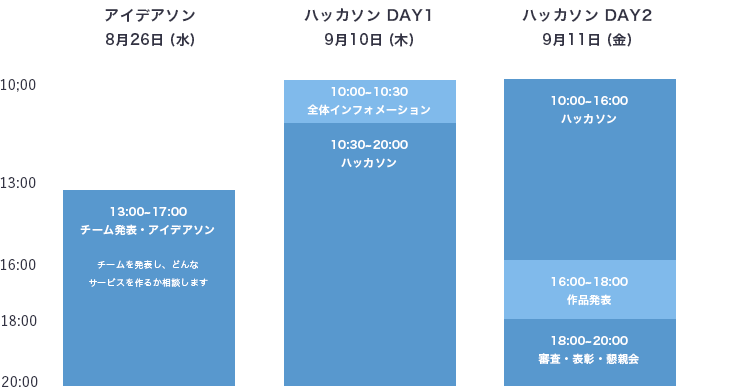
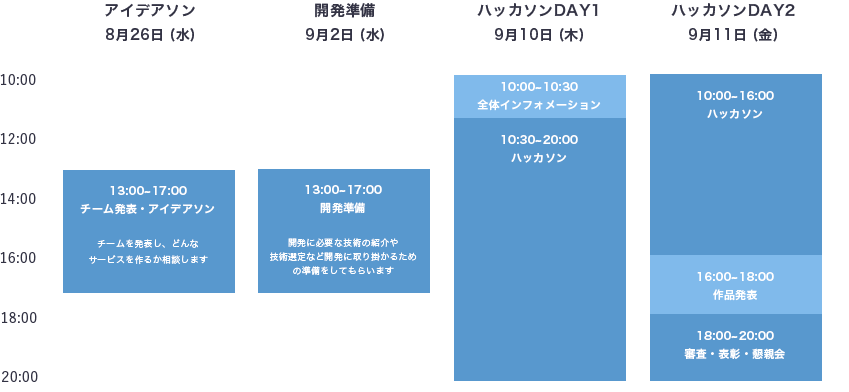
プライバシーポリシーの追加とスケジュールの修正

diff --git a/source/privacy.html b/source/privacy.html
@@ -1,0 +1,44 @@
+<!DOCTYPE html>
+<html lang="ja">
+<head>
+  <meta charset="UTF-8">
+  <meta http-equiv="X-UA-Compatible" content="IE=edge">
+  <meta name="viewport" content="width=device-width, initial-scale=1, maximum-scale=1, user-scalable=no">
+  <meta name="robots" content="noindex">
+  <title>プライバシーポリシー - DHacks</title>
+  <link rel="stylesheet" href="./stylesheets/privacy.css">
+</head>
+<body>
+  <main class="main" role="main">
+    <section>
+      <div class="container">
+        <h1>DHacks プライバシーポリシー</h1>
+
+        <p>Doshisha Institute of Technology（以下「DIT」）は、以下のとおり個人情報保護方針を定め、プライバシーを尊重し、当ハッカソンイベントへの参加者（以下参加者）の個人情報（以下の定義に従います）の管理に細心の注意を払い、これを取扱うものとします。</p>
+
+        <h2>1. 個人情報の定義</h2>
+        <p>個人情報とは、参加者個人に関する情報であって、当該情報を構成する氏名、メールアドレス、所属、その他の記述等により当該参加者を識別できるものをいいます。また、その情報のみでは識別できない場合でも、他の情報と容易に照合することができ、結果的に参加者個人を識別できるものも個人情報に含まれます。</p>
+
+
+        <h2>2. 個人情報の利用目的</h2>
+        <p>DITが取得する個人情報は、下記の目的の範囲内で適正に取り扱います。</p>
+
+        <ul>
+          <li>ハッカソンイベントの連絡</li>
+          <li>DITが開催するイベント情報の告知</li>
+          <li>本イベント提携企業への個人情報の提供</li>
+        </ul>
+
+        <h2>3. 第三者提供</h2>
+        <p>DITは、原則として、参加者本人の同意を得ずに個人情報を第三者に提供しません。提供先・提供情報内容を特定した上で、参加者の同意を得た場合に限り提供します。</p>
+
+        <h2>4. 個人情報の管理</h2>
+        <p>管理責任者：同志社大学　同志社ローム記念館プロジェクト　DIT</p>
+      </div>
+    </section>
+  </main>
+  <div class="footer" role="contentinfo">
+    <small class="copyright">&copy; 2015 DIT.</small>
+  </div>
+</body>
+</html>

diff --git a/source/index.html b/source/index.html
@@ -57,9 +57,9 @@
             <th>日時</th>
             <td>
               <ul>
-                <li>アイデアソン：8月26日(水) 13時〜</li>
-                <li>開発準備：9月2日(水) 13時〜</li>
-                <li>ハッカソン：9月10日(木)〜9月11日(金)</li>
+                <li>アイデアソン：8月26日(水) 13時〜17時（任意参加）</li>
+                <li>開発準備：9月2日(水) 13時〜17時（任意参加）</li>
+                <li>ハッカソン：9月10日(木)〜9月11日(金)（必須）</li>
               </ul>
             </td>
           </tr>
@@ -77,11 +77,11 @@
           </tr>
           <tr>
             <th>人数</th>
-            <td>28名<br><span class="note">※定員を超えた場合は抽選</span></td>
+            <td>28名(1チーム4人)</td>
           </tr>
           <tr>
             <th>エントリー期間</th>
-            <td>6月27日(土)〜8月上旬</td>
+            <td>6月27日(土)〜8月9日(日)</td>
           </tr>
           <tr>
             <th>ルール</th>
@@ -119,7 +119,7 @@
         <div class="row">
           <img src="./images/schedule.png" alt="スケジュール">
         </div>
-        <p style="margin-top: 30px;">※9月2日に開発準備を行います</p>
+        <p style="margin-top: 30px;">※アイデアソン、開発準備は任意参加です。</p>
       </div>
     </section>
     <section id="sponsor">

diff --git a/source/stylesheets/_subpage.scss b/source/stylesheets/_subpage.scss
@@ -1,0 +1,28 @@
+body {
+  color: #50525a;
+  font-size: 15px;
+  line-height: 1.7;
+}
+
+.container {
+  max-width: 600px;
+  padding: 0 $base-margin;
+  h1 {
+    margin-top: $base-margin * 2;
+    margin-bottom: $base-margin;
+    font-size: 3rem;
+    text-align: center;
+  }
+  h2 {
+    margin-top: $base-margin;
+    margin-bottom: $base-margin * .5;
+    font-size: 2rem;
+  }
+}
+
+.footer {
+  margin-top: $base-margin;
+  margin-bottom: $base-margin * 2;
+  text-align: center;
+}
+

diff --git a/source/stylesheets/_jumbotron.scss b/source/stylesheets/_jumbotron.scss
@@ -1,7 +1,7 @@
 @charset 'UTF-8';
 .jumbotron {
   margin-bottom: 0;
-  padding: $base-margin * 2.5 $base-margin * 0.5;
+  padding: $base-margin * 3.5 $base-margin * 0.5;
   color: $white-text-color;
   background: $theme-color;
   text-align: center;

diff --git a/source/stylesheets/_about.scss b/source/stylesheets/_about.scss
@@ -1,6 +1,8 @@
 @charset 'UTF-8';
 
 #about {
+  padding-top: $base-margin * 3;
+  padding-bottom: $base-margin * 3.5;
   .description {
     margin: auto;
     max-width: 700px;

diff --git a/source/stylesheets/_schedule.scss b/source/stylesheets/_schedule.scss
@@ -2,7 +2,7 @@
 #schedule {
   .container {
     padding: 0 30px;
-    max-width: 700px;
+    max-width: 800px;
     text-align: center;
     img {
       max-width: 100%;

diff --git a/source/stylesheets/privacy.scss b/source/stylesheets/privacy.scss
@@ -1,0 +1,7 @@
+@charset "UTF-8";
+
+@import '../../bower_components/bootstrap-sass-official/assets/stylesheets/bootstrap';
+@import "variables";
+
+@import 'subpage'
+
